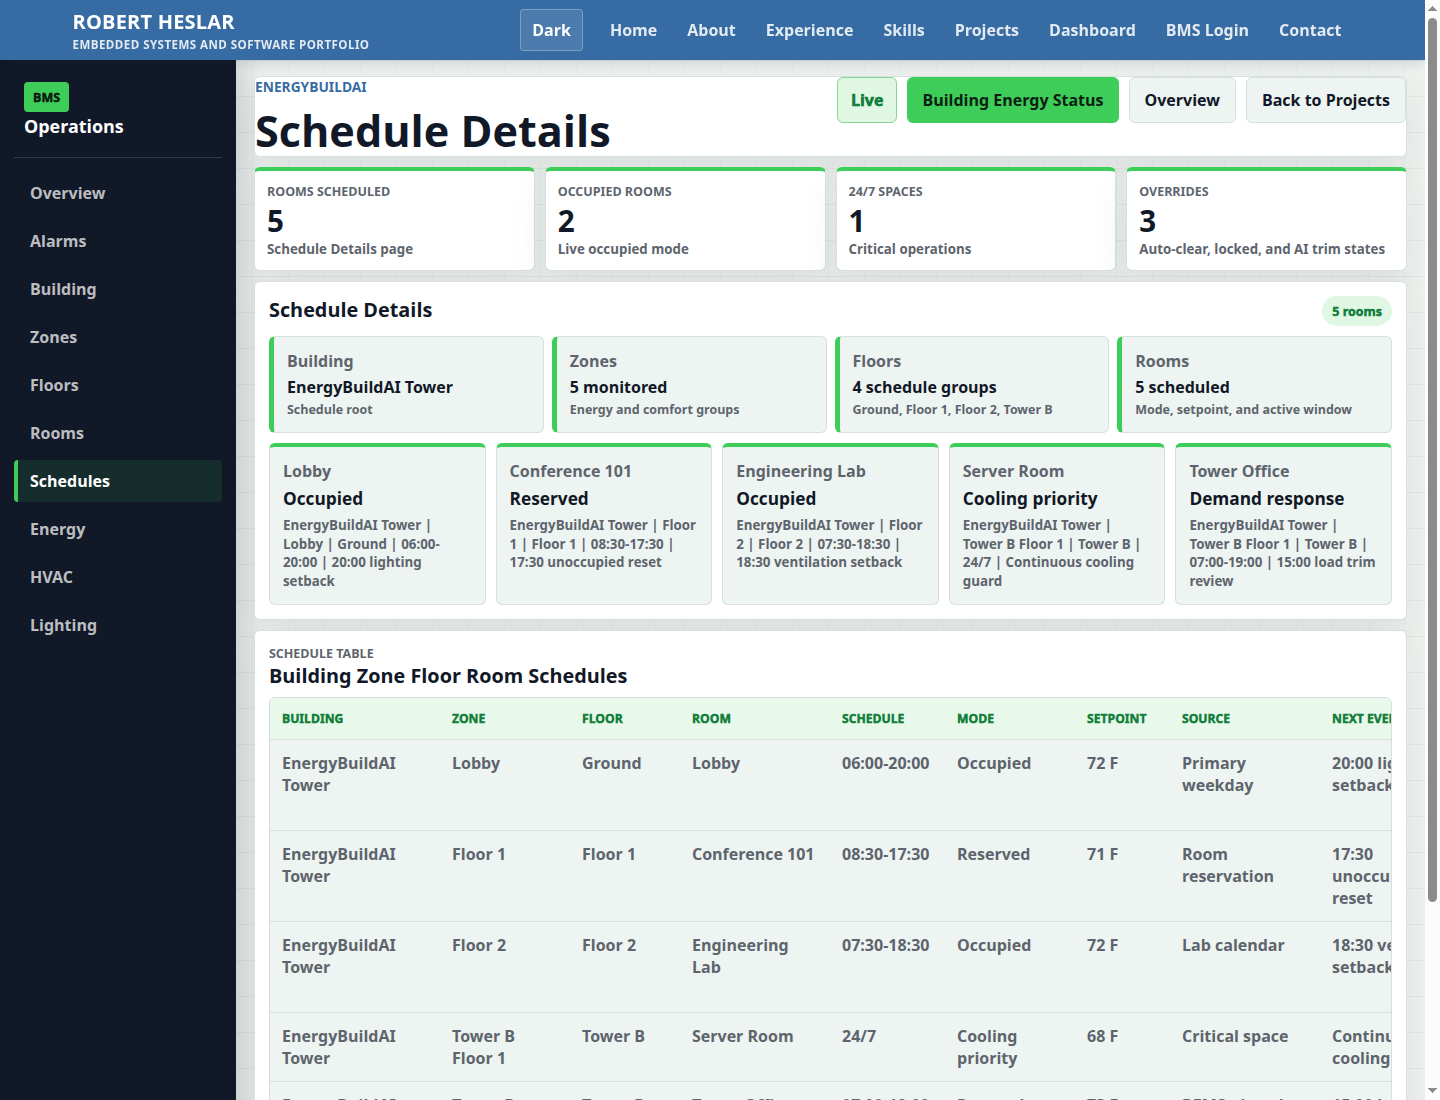
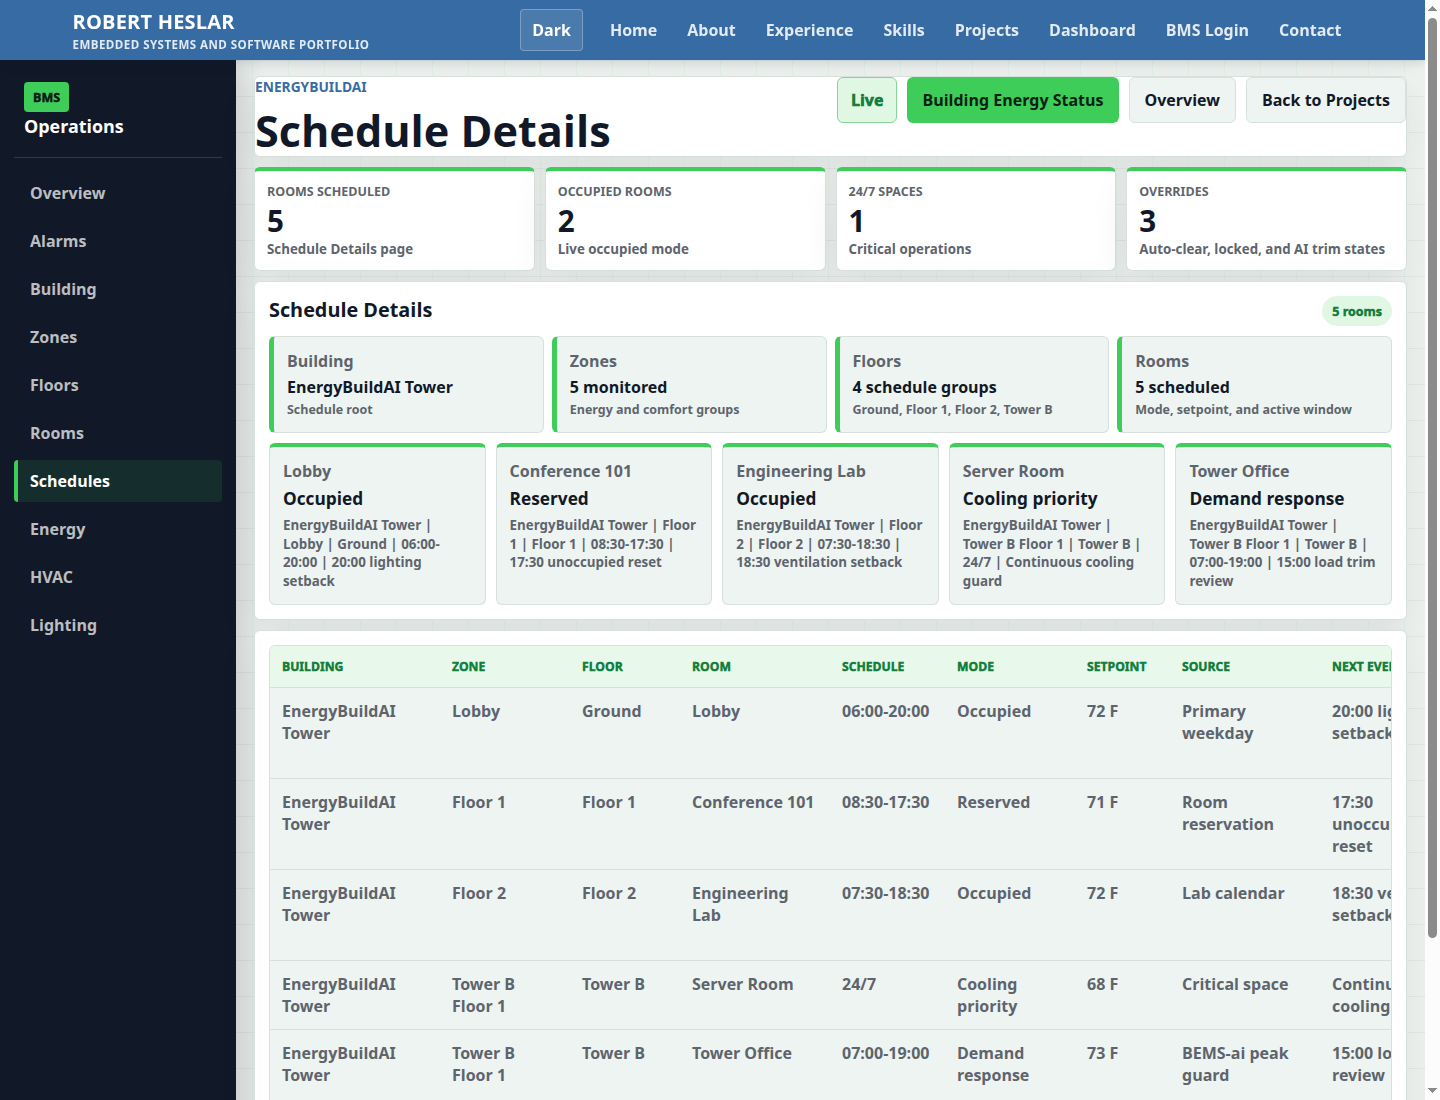
Remove schedule table heading

diff --git a/src/App.test.tsx b/src/App.test.tsx
@@ -96,6 +96,7 @@ test('renders schedules directly from #dashboard/schedules without the removed i
   expect(container.textContent).toContain('Schedule Details');
   expect(container.textContent).not.toContain(['Building', 'Schedules'].join(' '));
   expect(container.textContent).not.toContain(['Building', 'Hierarchy'].join(' '));
+  expect(container.textContent).not.toContain(['Building Zone', 'Floor Room', 'Schedules'].join(' '));
   expect(container.textContent).not.toContain('Dedicated schedule view organized from building to zone, floor, and room-level operating windows.');
   expect(container.querySelector('.eco-command-hero')).toBeNull();
   expect(container.textContent).not.toContain('Secure BMS Access');

diff --git a/src/components/Dashboard.tsx b/src/components/Dashboard.tsx
@@ -716,12 +716,6 @@ function Dashboard({ activeView = 'Overview' }: DashboardProps) {
             </article>
 
             <article className="eco-card eco-card-wide">
-              <div className="eco-card-heading">
-                <div>
-                  <span>Schedule Table</span>
-                  <h2>Building Zone Floor Room Schedules</h2>
-                </div>
-              </div>
               <div className="eco-schedule-table" role="table" aria-label="Building zone floor room schedule details">
                 <div role="row">
                   <span role="columnheader">Building</span>
